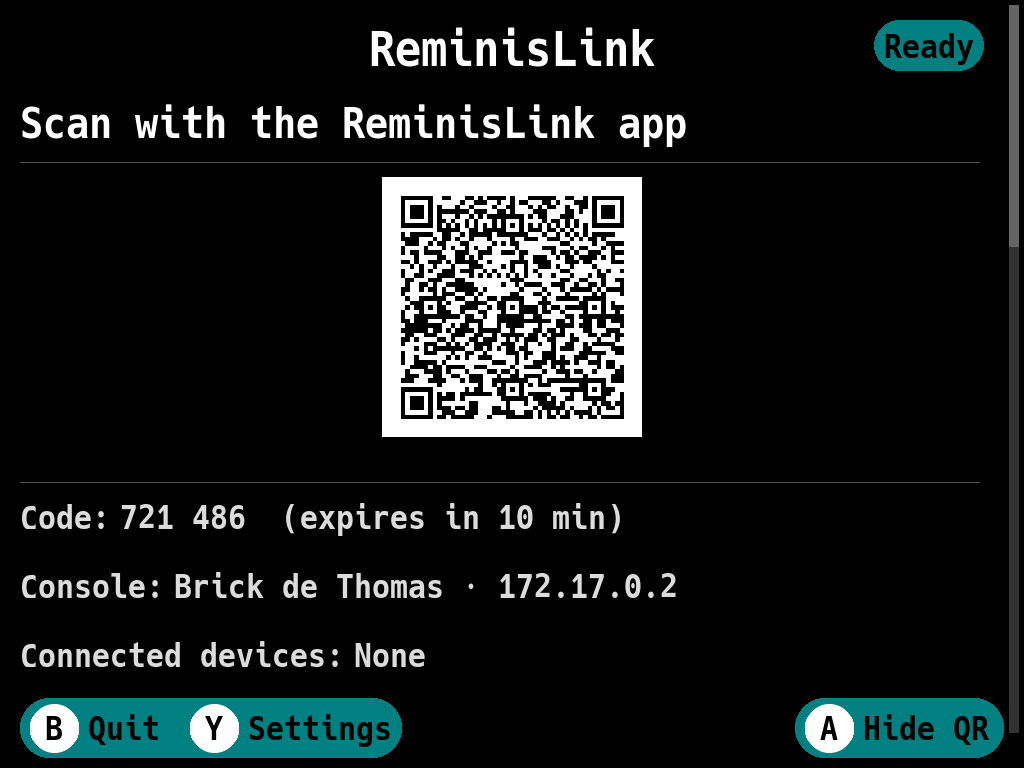
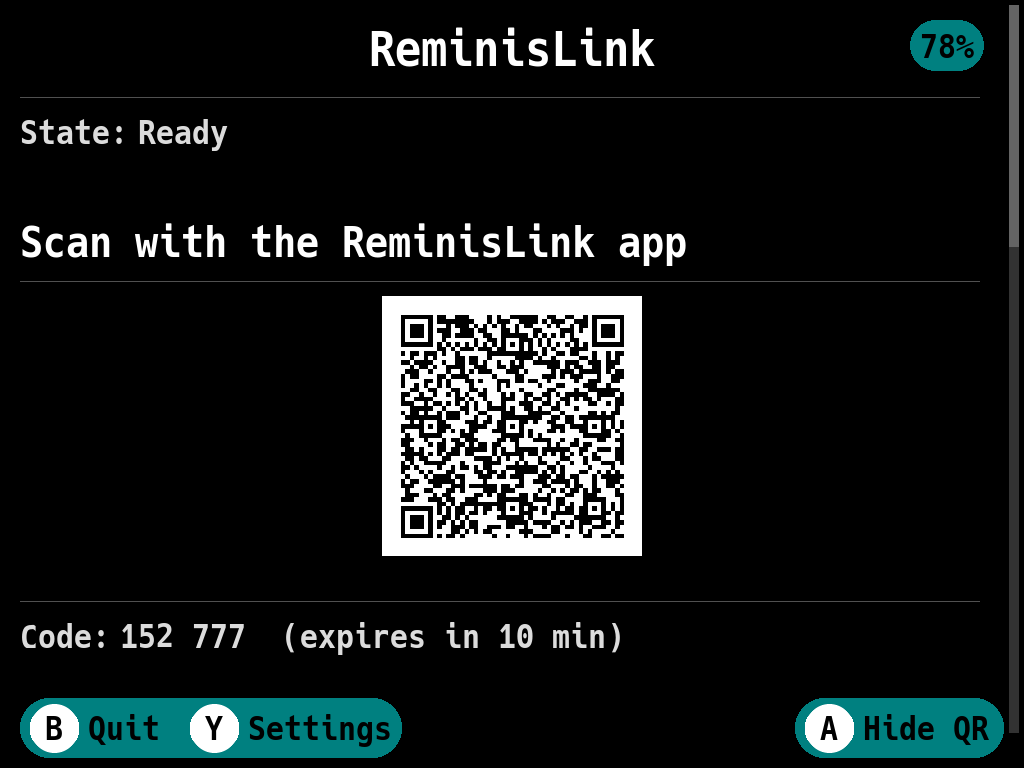
Regenerate the screenshots with a neutral console name and pairing on demand
Two sessions: without paired device (language, main screen with the QR
code), then paired (settings, Pair a New Device, transfer, exit). The
console is "Brick", with a fake battery; the site copies are updated.

diff --git a/site/index.html b/site/index.html
@@ -43,7 +43,7 @@
           </div>
         </div>
         <figure>
-          <img src="/assets/pak-main.png" alt="The ReminisLink screen on the handheld: a QR code to scan with the app, a 6-digit code, the name and address of the console, and the status Ready." width="1024" height="768">
+          <img src="/assets/pak-main.png" alt="The ReminisLink screen on the handheld: its state, the battery level, a QR code to scan with the app and a 6-digit code." width="1024" height="768">
           <figcaption>ReminisLink on the handheld, waiting for your iPhone.</figcaption>
         </figure>
       </div>
@@ -140,7 +140,7 @@
             <figcaption>Pairing: scan the QR code, or type the code.</figcaption>
           </figure>
           <figure>
-            <img src="/assets/pak-settings.png" alt="Settings screen: console name, paired devices, forget all devices, language, version and log." width="1024" height="768" loading="lazy">
+            <img src="/assets/pak-settings.png" alt="Settings screen: pair a new device, console name, paired devices, forget all devices, language, version and log." width="1024" height="768" loading="lazy">
             <figcaption>Settings: console name, paired devices, language.</figcaption>
           </figure>
           <figure>

diff --git a/scripts/screenshots/drive/main.go b/scripts/screenshots/drive/main.go
@@ -72,7 +72,7 @@ func main() {
 		if err != nil {
 			panic(err)
 		}
-		if err := s.Put(auth.Client{ID: id, Name: "iPhone de Thomas", Key: key, PairedAt: time.Now()}); err != nil {
+		if err := s.Put(auth.Client{ID: id, Name: "iPhone", Key: key, PairedAt: time.Now()}); err != nil {
 			panic(err)
 		}
 	case "start":

diff --git a/README.md b/README.md
@@ -11,16 +11,16 @@ It has two parts:
 
 ## Features of the pak
 
-- Pairing with a QR code, or with a 6-digit PIN, valid 10 minutes. Requests are signed: only paired iPhones are accepted.
-- Shows its state (Ready, Connected, Transfer in progress), the connected devices, the transfers with their progress, and a short banner each time the SD card changes ("Save restored: ...").
-- Send ROMs, back up and restore saves, lock save states, edit cheats and apply IPS, BPS and UPS patches, all from the app.
+- Pairing with a QR code, or with a 6-digit PIN, valid 10 minutes, open only while the code is on screen: on the main screen until a first device is paired, then from Settings > Pair a New Device. Requests are signed: only paired iPhones are accepted.
+- Shows its state (Ready, Connected, Transfer in progress), the battery level, the connected devices, the transfers with their progress, and a short banner each time the SD card changes ("Save restored: ...").
+- Send ROMs and game art, back up and restore saves, lock save states, edit cheats and apply IPS, BPS and UPS patches, all from the app.
 - Nothing is deleted without a copy: a deleted or replaced file goes to a trash kept 30 days.
-- Settings: name of the console (as seen by the app), paired devices, language, version and log location.
+- Settings: pair a new device, name of the console (as seen by the app), paired devices, language, version and log location.
 - Interface in English and French, chosen on first launch.
 
-| Transfer in progress | Settings | First launch |
-|---|---|---|
-| ![Transfer](docs/screenshots/transfer.png) | ![Settings](docs/screenshots/settings.png) | ![Language](docs/screenshots/language.png) |
+| Transfer in progress | Settings | Pair a New Device | First launch |
+|---|---|---|---|
+| ![Transfer](docs/screenshots/transfer.png) | ![Settings](docs/screenshots/settings.png) | ![Pairing](docs/screenshots/pairing.png) | ![Language](docs/screenshots/language.png) |
 
 The screenshots come from the desktop mode (`make screenshots`); on the console the pak uses the NextUI theme.
 
